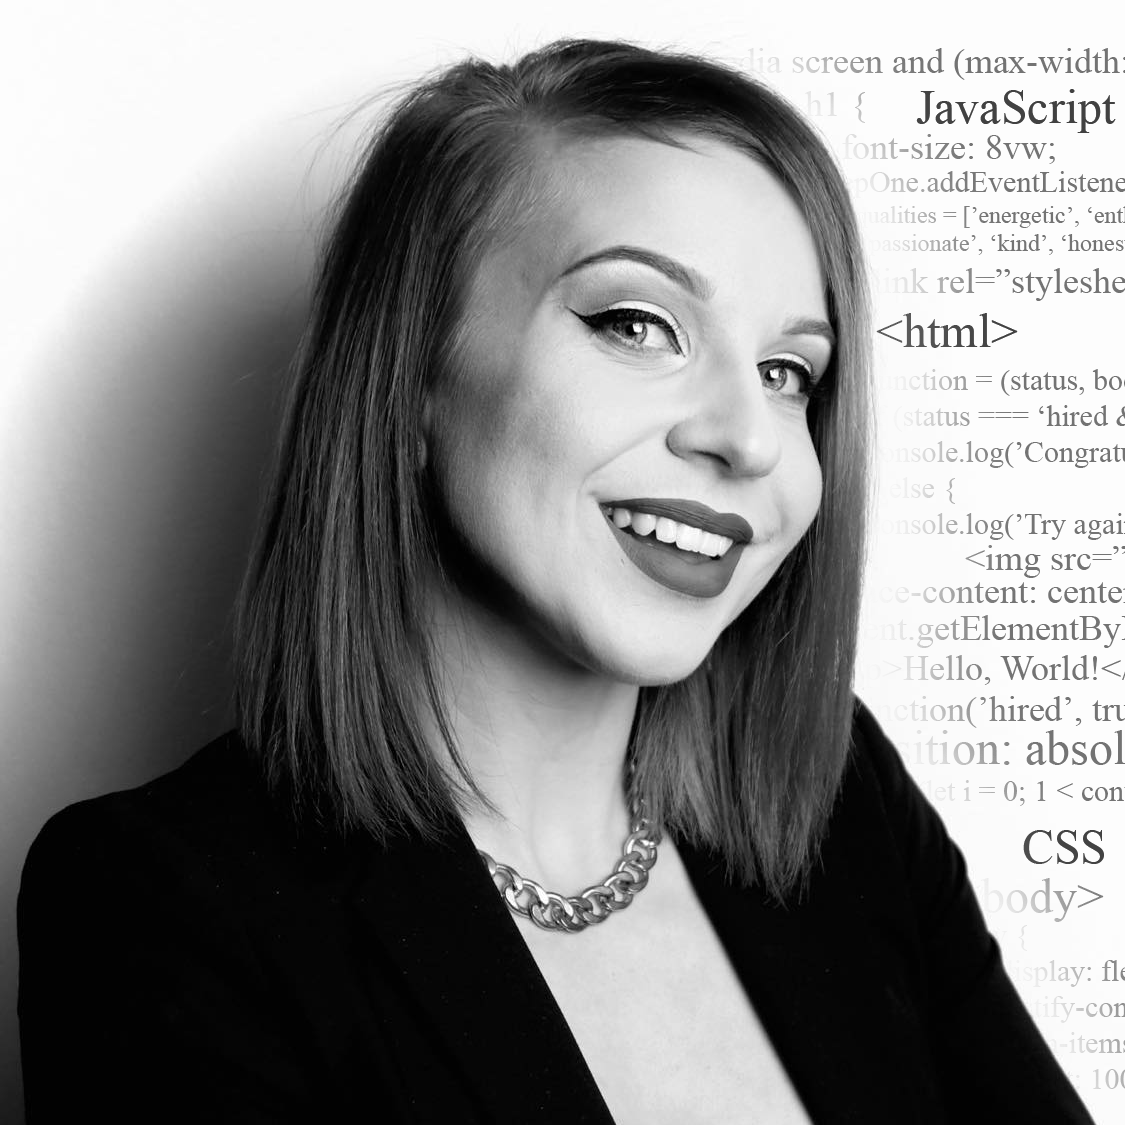
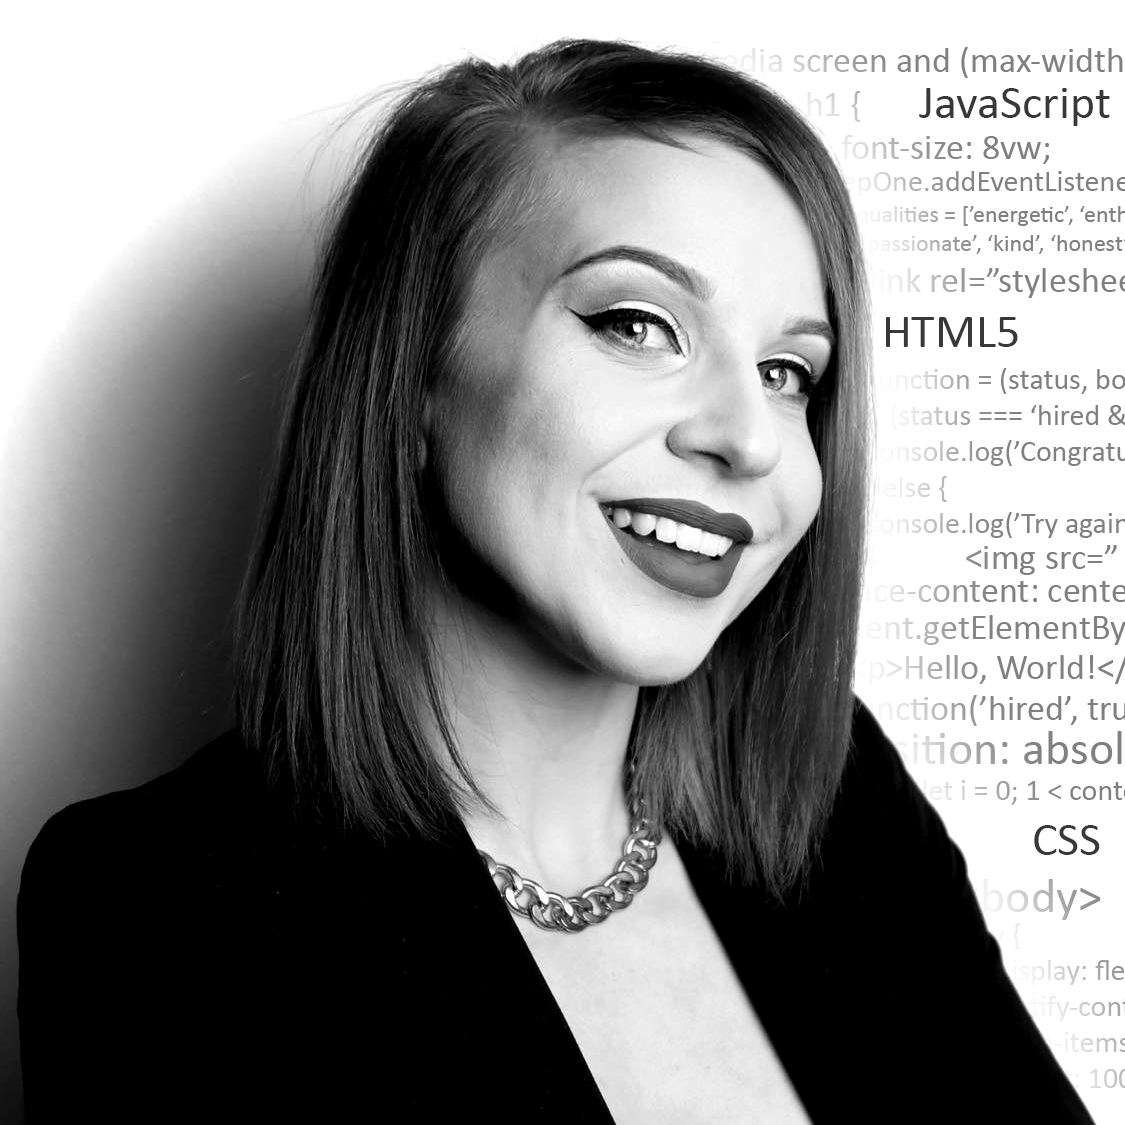
Change and add CSS to profile

Changed region(s): [[0.7156, 0.0311, 1.0, 0.8089], [0.9333, 0.84, 1.0, 0.9644]]

diff --git a/home-page.html b/home-page.html
@@ -5,21 +5,30 @@
     <meta name="viewport" content="width=device-width, initial-scale=1.0">
     <link rel="stylesheet" href="home-page.css">
     <link rel="stylesheet" href="https://cdnjs.cloudflare.com/ajax/libs/font-awesome/6.4.0/css/all.min.css"/>
+    <link rel="preconnect" href="https://fonts.googleapis.com">
+    <link rel="preconnect" href="https://fonts.gstatic.com" crossorigin>
+    <link href="https://fonts.googleapis.com/css2?family=Agdasima&family=Raleway:wght@100;200;300;400&display=swap" rel="stylesheet">
     <title>Portfolio | Vicki Jacobson</title>
 </head>
-<body bgcolor="#262423">
-    <div id="info">
-        <!--<img id="memoji" src="Resources/memoji.png" alt="memoji">-->
-        <h2>&lt;Hello, World!&gt;</h2>
-        <h1>Résumé & Portfolio of <span id="name">Vicki Jacobson</span></h1>
-        <img id="headshot" src="Resources/Portfolio-top-profile-text.png" alt="Vicki Jacobson Headshot">
-        <h3>Key Experience: Web Publishing, Copywriting, Retail/Sales, Songwriting & Music Production</h3>
-        <ul>
-        <li><a href = "mailto: vickijacobson@hotmail.com"><i class="fas fa-envelope"></i></a></li>
-        <li><a href="https://www.linkedin.com/in/vicki-jacobson-2612a8105/"><i class="fa-brands fa-linkedin"></i></a></li>
-        </ul>
-        <p>I'm a Front End Developer and jack of all trades in the best way possible. My passion has taken me far and wide, through tech/IT, web publishing, retail, music production, photography and more.<br>Welcome to my résumé and portfolio.</p>
-
+<body bgcolor="#100E0D">
+    <div id="welcome">
+        <div id="profile">
+            <div id="profile-text">
+                <h2 id="hello">&lt;Hello, World!&gt;</h2>
+                <h1>Résumé & Portfolio of <span id="name">Vicki Jacobson</span></h1>
+            </div>
+            <div id="profile-img">
+                <img id="headshot" src="Resources/Portfolio-top-profile-text.png" alt="Vicki Jacobson Headshot">
+            </div>
+        </div>
+        <div id="info">
+            <h3>Key Experience: Web Publishing, Copywriting, Retail/Sales, Songwriting & Music Production</h3>
+            <ul>
+            <li><a href = "mailto: vickijacobson@hotmail.com"><i class="fas fa-envelope"></i></a></li>
+            <li><a href="https://www.linkedin.com/in/vicki-jacobson-2612a8105/"><i class="fa-brands fa-linkedin"></i></a></li>
+            </ul>
+            <p>I'm a Front End Developer and jack of all trades in the best way possible. My passion has taken me far and wide, through tech/IT, web publishing, retail, music production, photography and more.<br>Welcome to my résumé and portfolio.</p>
+        </div>
     </div>
     <div class="nav">
         <ul>

diff --git a/home-page.css b/home-page.css
@@ -1,0 +1,96 @@
+* {
+    font-family: sans-serif;
+    color: #ebe9e9;
+    font-size: 1em;
+    margin: 0;
+    padding: 0;
+    box-sizing: border-box;
+}
+
+body {
+    font-size: 18px;
+    max-width: 100%;
+    height: auto;
+    overflow-x: hidden;
+}
+
+h1, h1 #name {
+    font-family: 'Raleway', sans-serif;
+    font-size: 1.35em;
+    color: #DCDCD8;
+}
+
+h2 {
+    font-family: 'Agdasima', sans-serif;
+}
+
+#welcome {
+    display: flex;
+    justify-content: center;
+    margin-top: 30px;
+}
+
+#profile {
+    position: absolute;
+    display: grid;
+    max-width: 100%;
+    grid-template: 520px / 520px 520px;
+    gap: 10px;
+}
+
+#profile-text {
+    align-self: end;
+}
+
+#profile-img {
+    display: flex;
+    justify-content: center;
+    align-items: center;
+    background: linear-gradient(
+        to right,
+        #6b4e23  0,
+        #cb9b51 22%, 
+        #f6e27a 45%,
+        #f6f2c0 50%,
+        #f6e27a 55%,
+        #cb9b51 78%,
+        #6b4e23 100%
+        );
+        padding: 1em;
+}
+
+#headshot {
+    width: 500px;
+    height: 500px;
+}
+
+#info {
+    display: none;
+}
+
+#hello {
+    display: table;
+    font-size: 5em;
+    background-image: linear-gradient(
+        to right,
+        #6b4e23  0,
+        #cb9b51 22%, 
+        #f6e27a 45%,
+        #f6f2c0 50%,
+        #f6e27a 55%,
+        #cb9b51 78%,
+        #6b4e23 100%
+        );
+       color:transparent;
+       -webkit-background-clip:text; 
+}
+
+
+
+#name {
+    text-transform: uppercase;
+}
+
+.nav {
+    display: none;
+}
